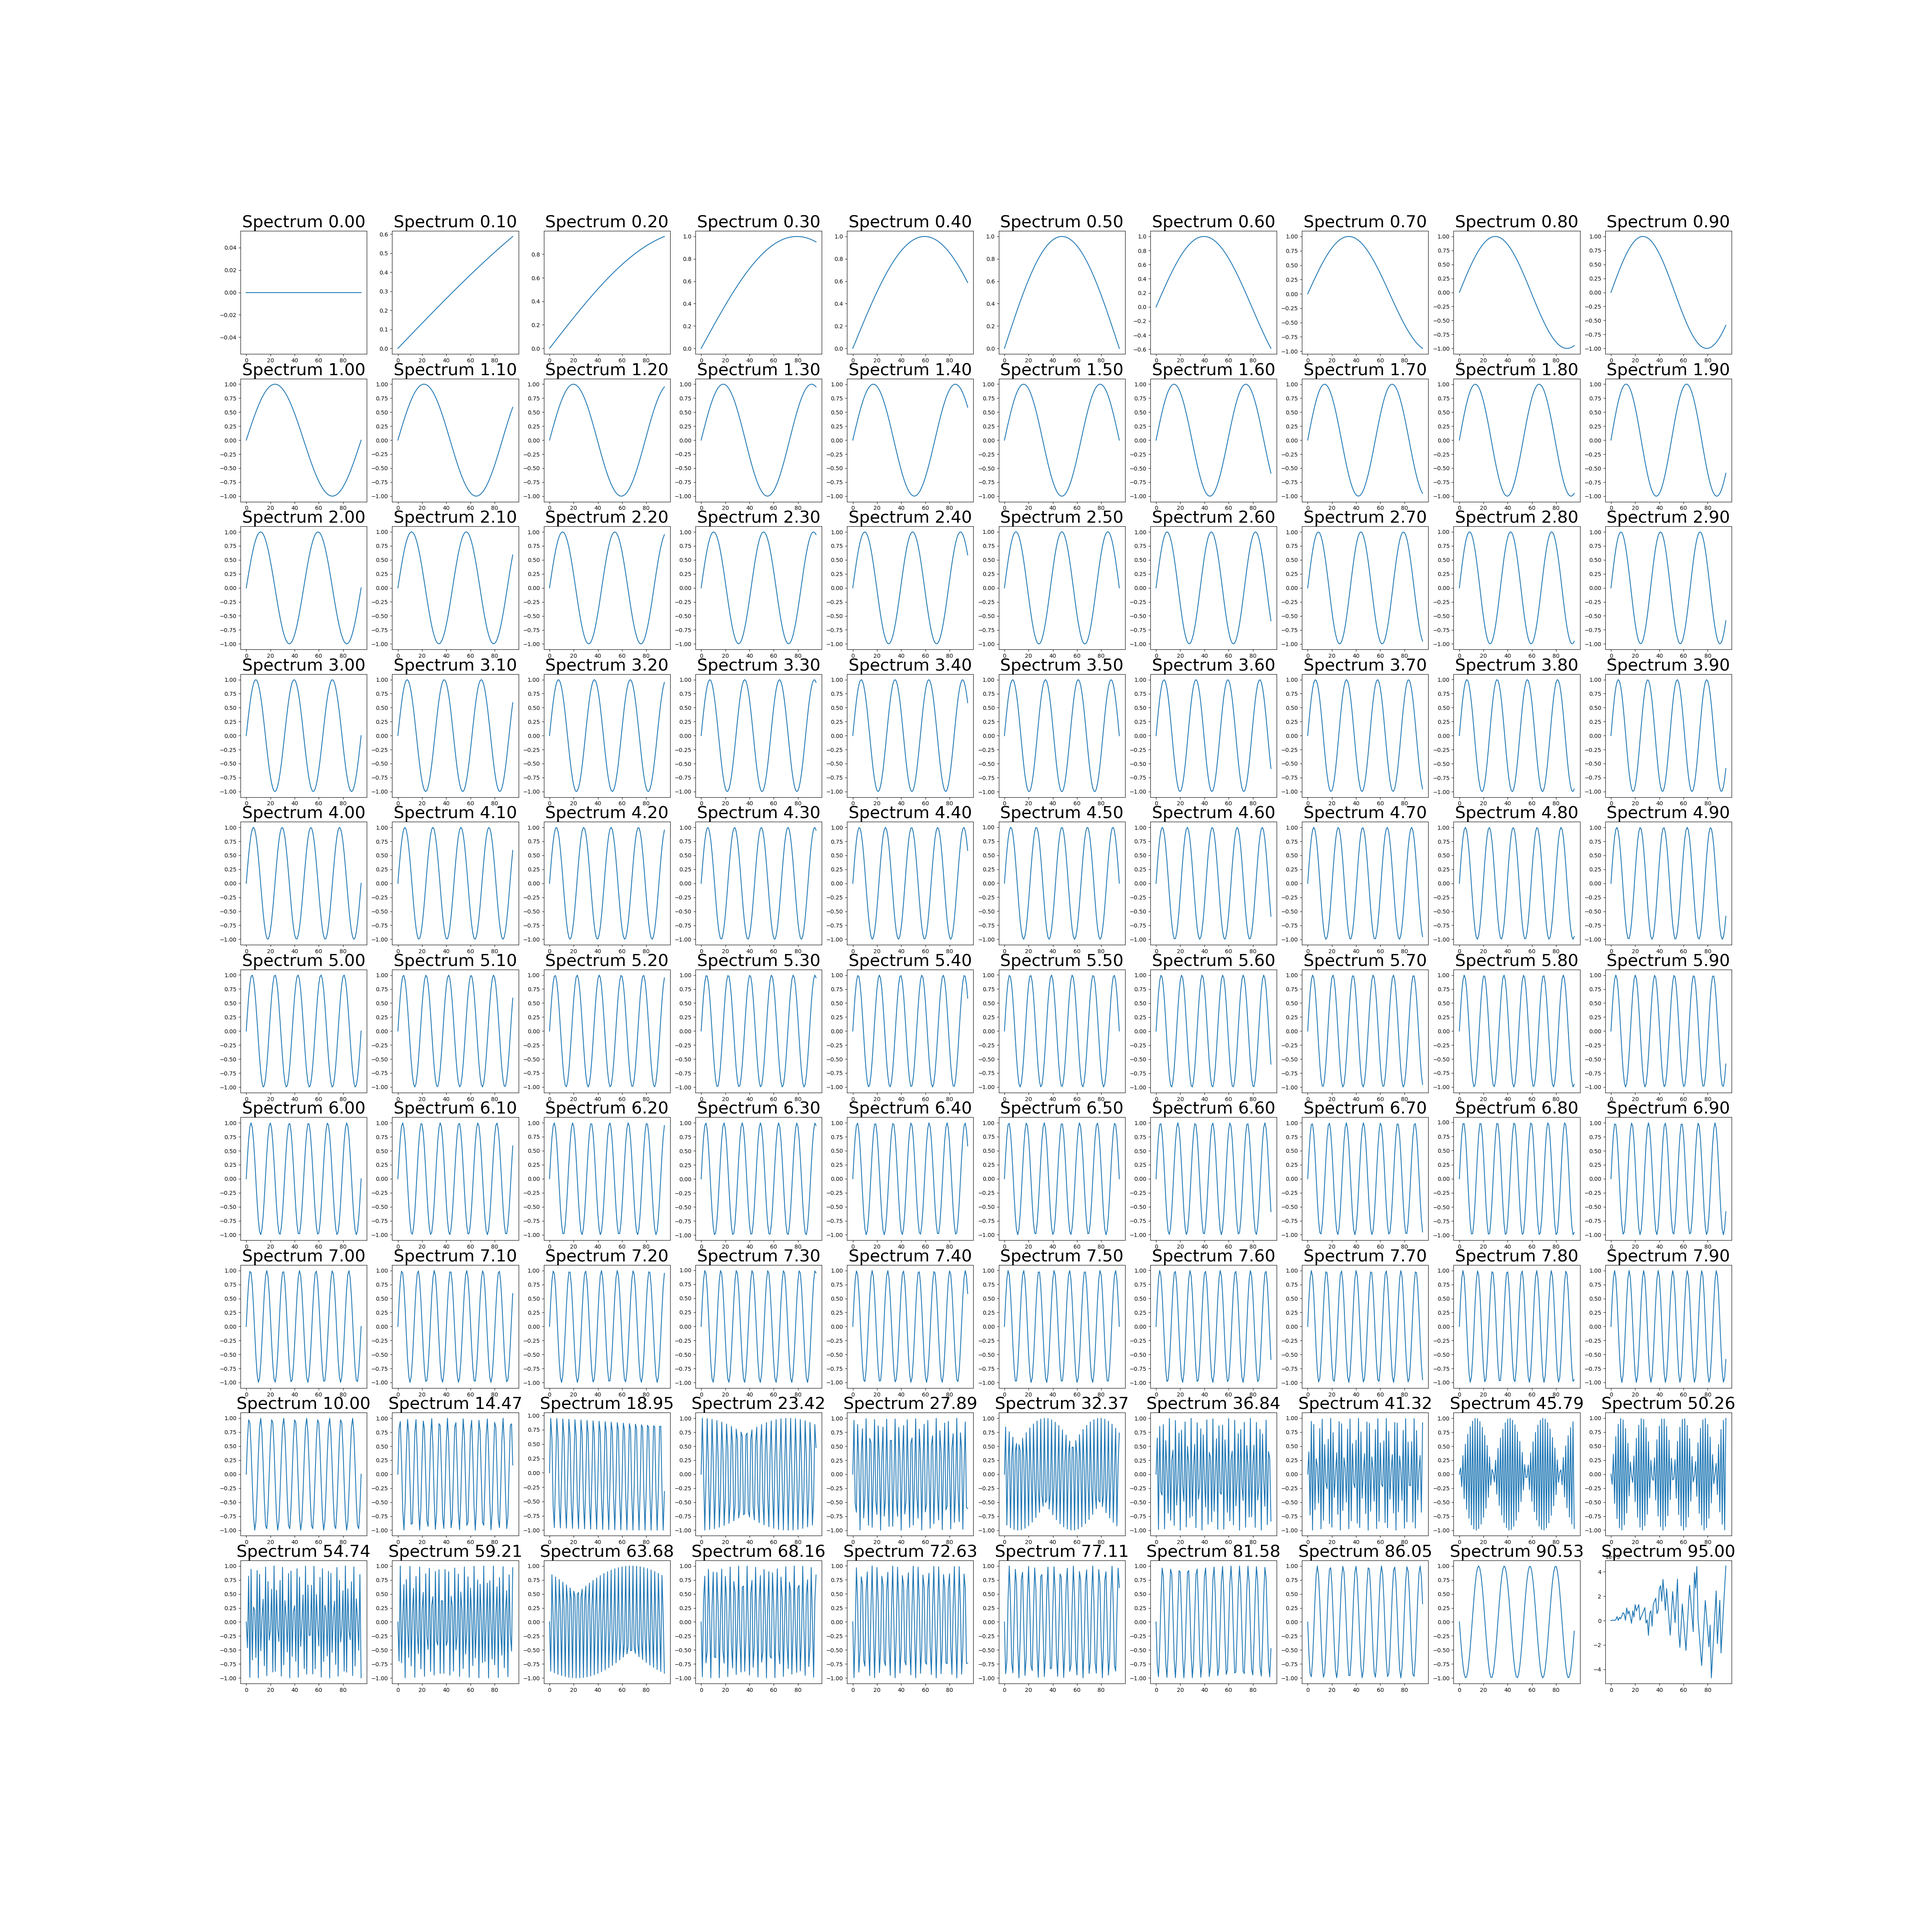
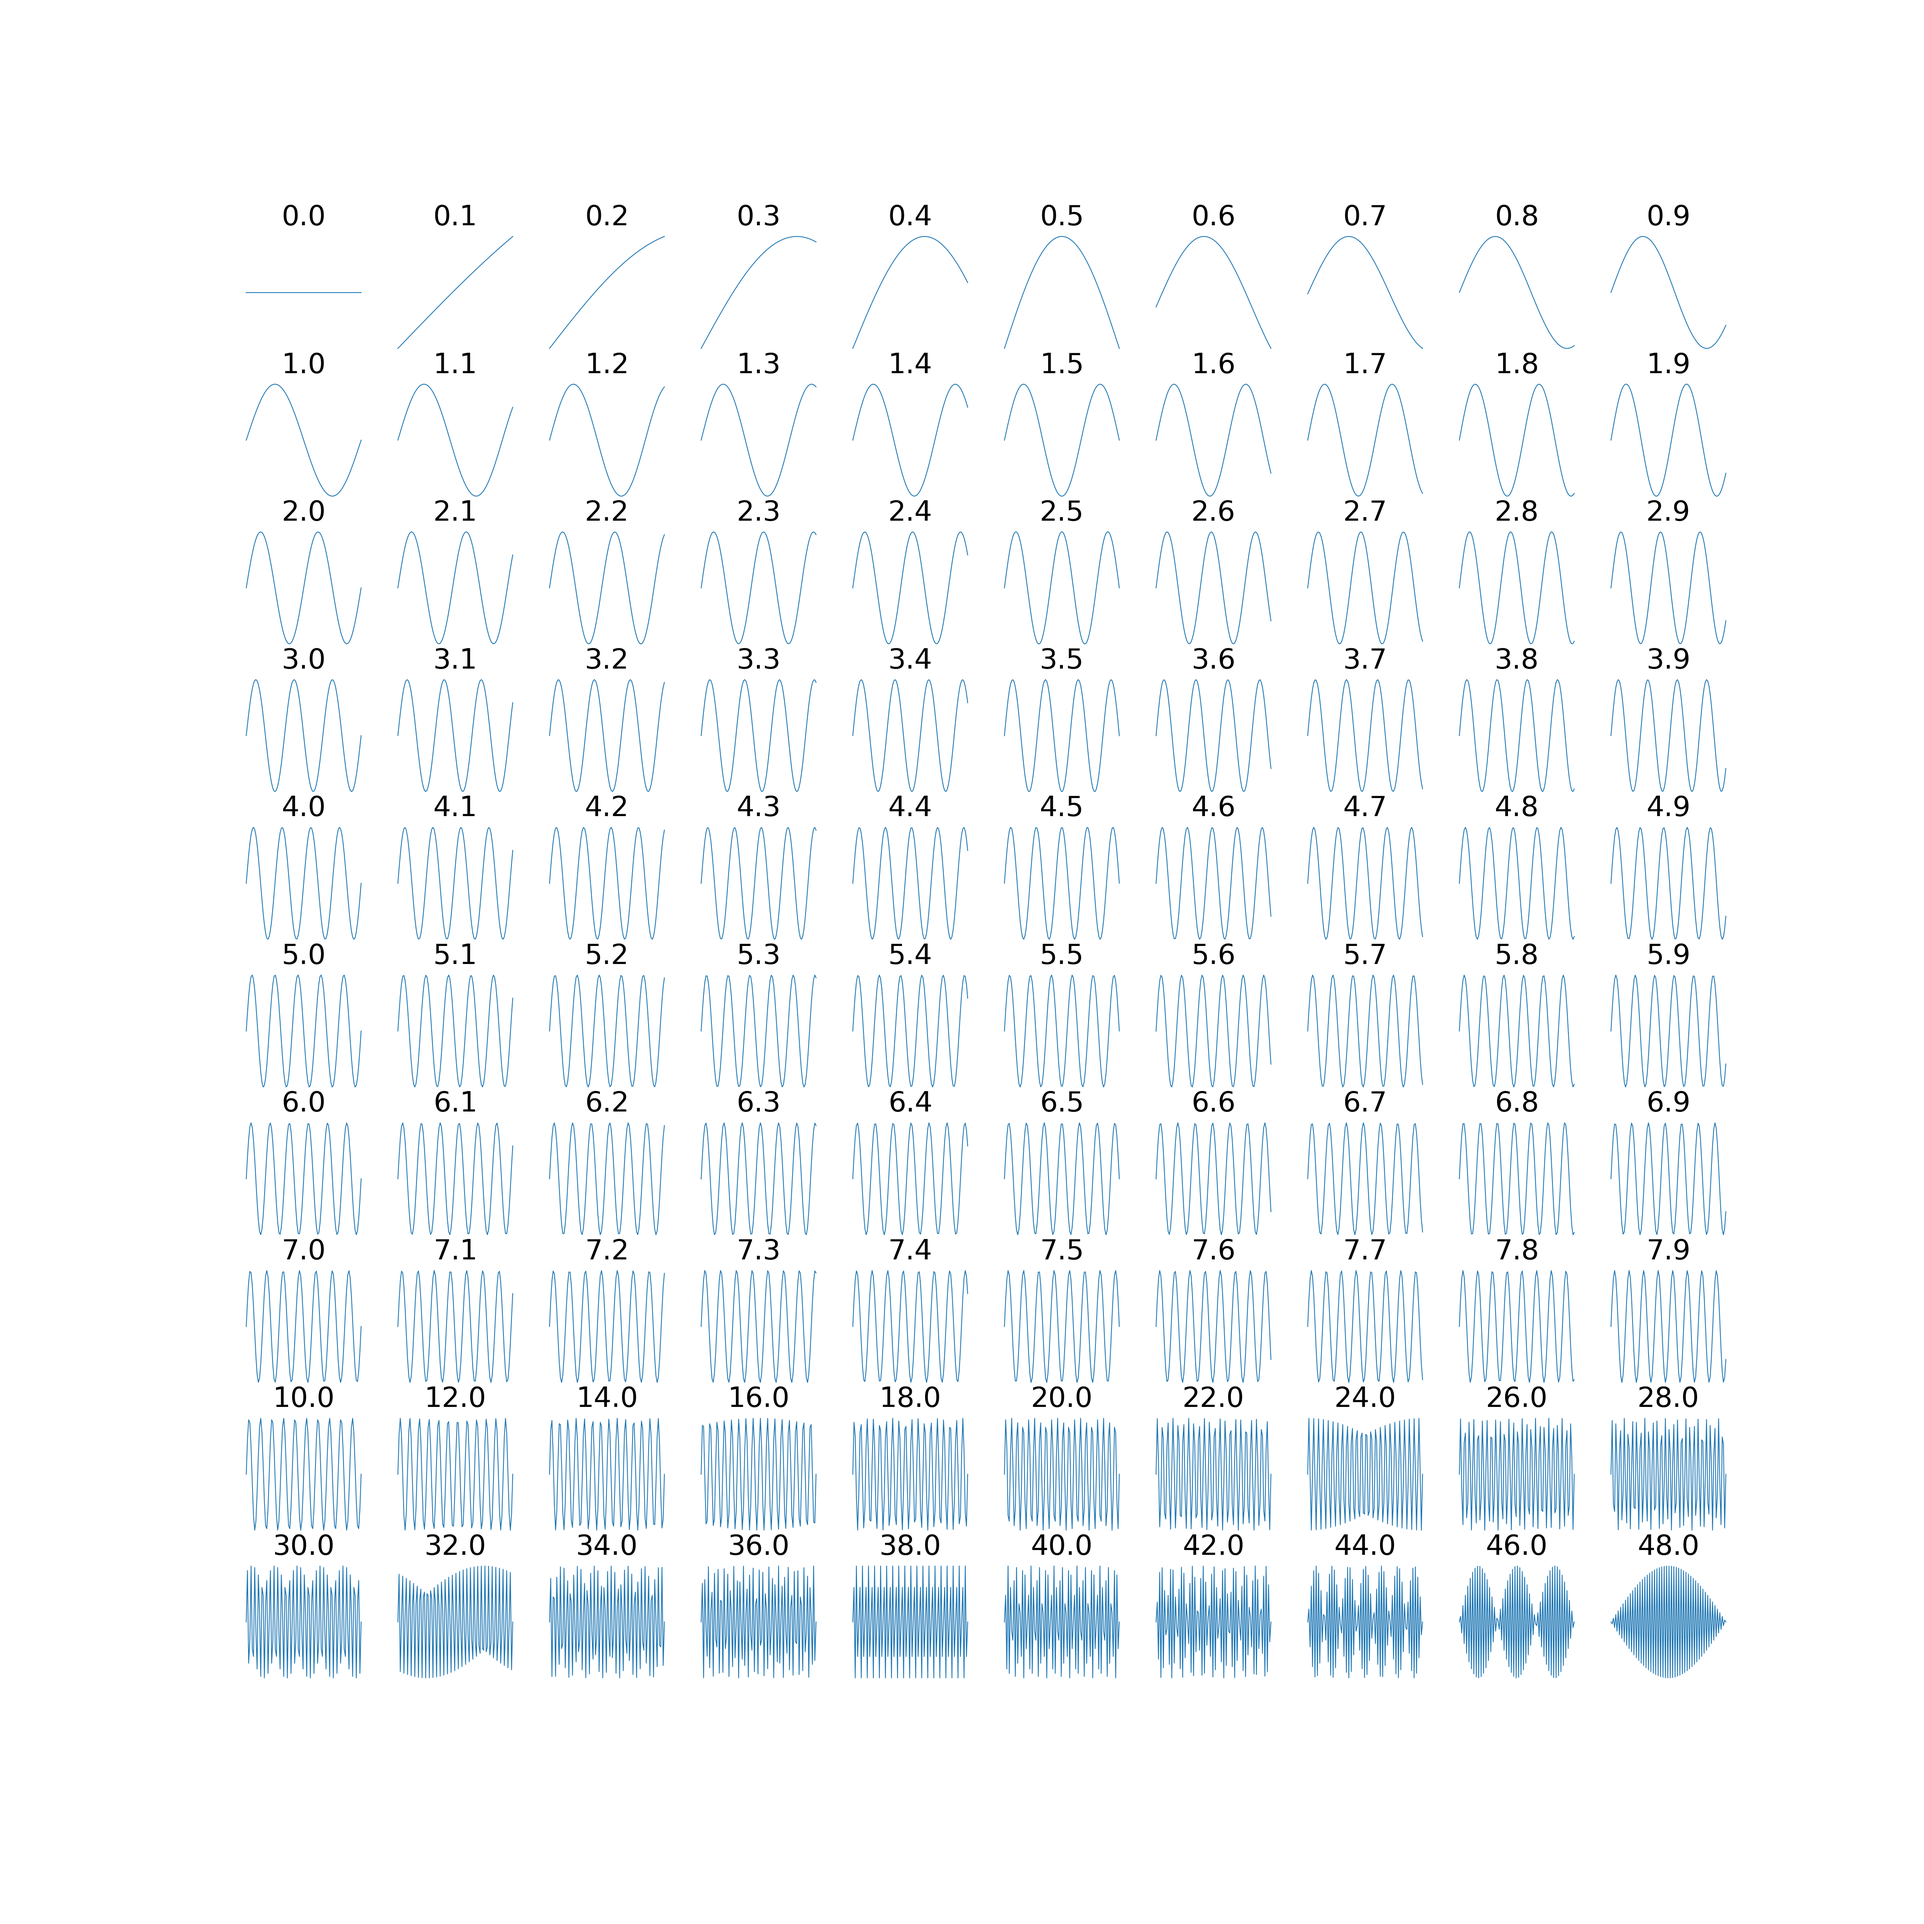
5

diff --git a/EDisease_utils.py b/EDisease_utils.py
@@ -50,6 +50,7 @@ def draw_spectrum():
     thida = torch.linspace(0,2*math.pi,int(96))
 
     fig = plt.figure(figsize=(48,48),dpi=100)
+    
     for p in range(80):        
         value = (0.1*p*thida).sin()
 
@@ -57,24 +58,26 @@ def draw_spectrum():
         yi = int(p/10)
         ax = plt.subplot2grid((10,10),(yi,xi))
         ax.plot(value)
-        # ax[yi, xi].axis('off')
-        plt.title(f'Spectrum {0.1*p:.2f}',fontsize=30)
+        ax.axis('off')
+        plt.title(f'{0.1*p:.1f}',fontsize=50)
         
     for p in range(20):        
-        value = ((4.4736842*p+10)*thida).sin()
+        value = ((2*p+10)*thida).sin()
 
         xi = p%10
         yi = int(p/10)+8
         ax = plt.subplot2grid((10,10),(yi,xi))
         ax.plot(value)
-        # ax[yi, xi].axis('off')
-        plt.title(f'Spectrum {4.4736842*p+10:.2f}',fontsize=30)
+        ax.axis('off')
+        plt.title(f'{2*p+10:.1f}',fontsize=50)
     plt.savefig('./Spectrum_0_95.png')
     
 def draw_spectrum_innerproduct():
     thida = torch.linspace(0,2*math.pi,int(96))
-    tensor = torch.arange(95).unsqueeze(0)
+    tensor = (torch.arange(96)-47.5).unsqueeze(0)
     k_thida = torch.einsum("nm,k->nmk", tensor, thida)
+    
+    xlabels = list(5*(torch.arange(20)-9.5).numpy())
     
     kk = k_thida[0]
     kt = torch.matmul(kk,kk.T).numpy()
@@ -85,7 +88,11 @@ def draw_spectrum_innerproduct():
 
     fig = plt.figure(figsize=(63,54),dpi=100)
     sns.set(font_scale = 12)
+    # sns.set_xticklabels(['2011','2012','2013','2014','2015','2016','2017','2018'])
     ax = sns.heatmap(ktn_clamp, linewidth=0.,alpha=.9)
+    ax.set_xticklabels(xlabels)
+    ax.set_yticklabels(xlabels)
+    # plt.xticks(rotation=60)
     plt.savefig('./Spectrum_product.png')
     
     

diff --git a/EDisease_model_v001.py b/EDisease_model_v001.py
@@ -65,7 +65,7 @@ class float2spectrum(nn.Module):
         '''
         
         device = tensor.device
-        minmax = float(self.embedding_size-1)-1e-6
+        minmax = float(self.embedding_size/2)-1e-4
         
         tensor = tensor.clamp(min=-1*minmax,max=minmax)
         
@@ -98,7 +98,7 @@ class structure_emb(nn.Module):
         self.BERTmodel = BertModel(self.Config)
 
     def forward(self, inputs,attention_mask,position_ids,token_type_ids=None):
-        inputs_embeds = self.float2emb(10*inputs)
+        inputs_embeds = self.float2emb(4.8*inputs) # to keep the 10x std data range
         
         outputs = self.BERTmodel(inputs_embeds=inputs_embeds,
                                  attention_mask=attention_mask,
